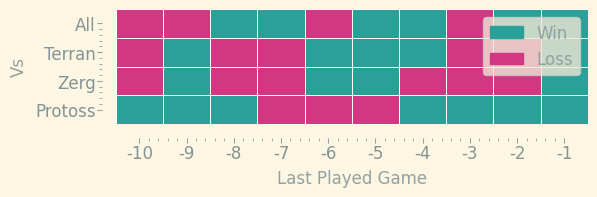
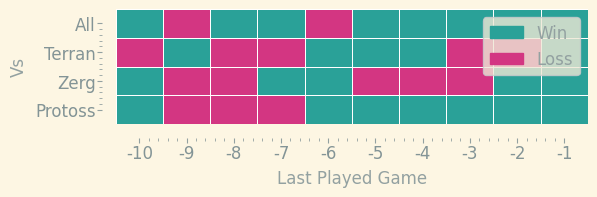
running on push

diff --git a/docs/index.md b/docs/index.md
@@ -18,7 +18,7 @@ layout: home
   <tbody>
     <tr>
       <td>Matches Played</td>
-      <td>1622</td>
+      <td>1625</td>
     </tr>
     <tr>
       <td>MMR Gained</td>
@@ -26,7 +26,7 @@ layout: home
     </tr>
     <tr>
       <td>MMR lost</td>
-      <td>13882</td>
+      <td>13940</td>
     </tr>
     <tr>
       <td>Max MMR</td>
@@ -114,9 +114,9 @@ layout: home
 
 | Race    |   Wins |   Losses |   Total |   Win Rate (%) |   MMR Gained |   MMR Lost |
 |:--------|-------:|---------:|--------:|---------------:|-------------:|-----------:|
-| Protoss |    271 |      374 |     645 |        42.0155 |         4973 |       5875 |
+| Protoss |    271 |      376 |     647 |        41.8856 |         4973 |       5875 |
 | Terran  |    181 |      217 |     398 |        45.4774 |         4004 |       3081 |
-| Zerg    |    315 |      231 |     546 |        57.6923 |         4807 |       4726 |
+| Zerg    |    315 |      232 |     547 |        57.5868 |         4807 |       4726 |
 
 ![Games by Race](./assets/gm_hist.png)
 
